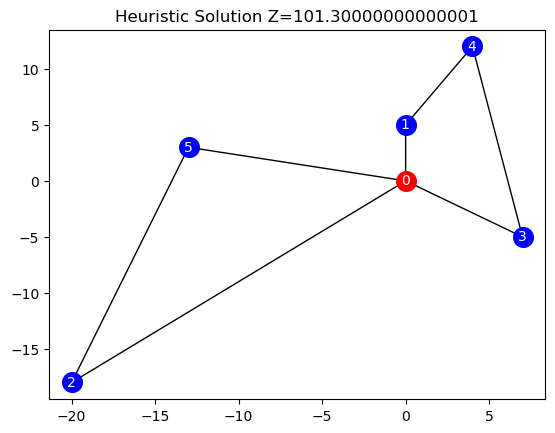
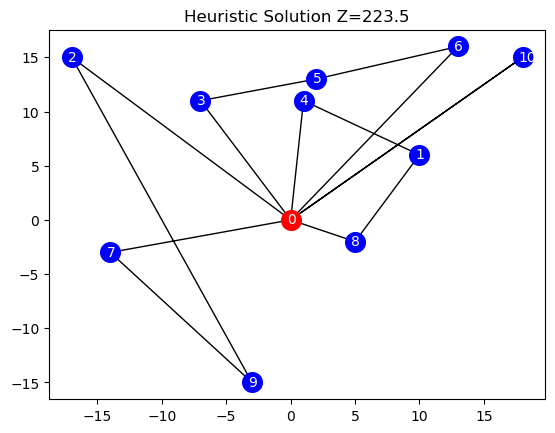
fixed a bug in heuristic solution

diff --git a/src/solver/column_generation/method.py b/src/solver/column_generation/method.py
@@ -16,24 +16,24 @@ class SolverColumnGeneration:
         self.initial_solution: Solution = None
 
         # heuristic solution
-        # self.initial_solution = get_initial_solution(instance)
-        # instance.draw(
-        #     self.initial_solution.routes,
-        #     title=f"Heuristic Solution Z={self.initial_solution.total_cost}",
-        #     save_file=True,
-        #     file_name="heuristic",
-        # )
-
-        # bad solution
-        r1 = Route([0, 2, 4, 0])
-        r2 = Route([0, 5, 3, 1, 0])
-        self.initial_solution = Solution(instance, {1: r1, 2: r2})
+        self.initial_solution = get_initial_solution(instance)
         instance.draw(
             self.initial_solution.routes,
-            title=f"Bad Initial Solution Z={self.initial_solution.total_cost}",
+            title=f"Heuristic Solution Z={self.initial_solution.total_cost}",
             save_file=True,
-            file_name="bad",
+            file_name="heuristic",
         )
+
+        # bad solution
+        # r1 = Route([0, 2, 4, 0])
+        # r2 = Route([0, 5, 3, 1, 0])
+        # self.initial_solution = Solution(instance, {1: r1, 2: r2})
+        # instance.draw(
+        #     self.initial_solution.routes,
+        #     title=f"Bad Initial Solution Z={self.initial_solution.total_cost}",
+        #     save_file=True,
+        #     file_name="bad",
+        # )
 
         # Create the master problem and fill it with the initial solution
         self.master = MasterProblem(self.initial_solution)

diff --git a/src/solver/column_generation/initial_solution.py b/src/solver/column_generation/initial_solution.py
@@ -45,12 +45,9 @@ def get_initial_solution(data: CVRP) -> Solution:
 
             # there is no more capacity or clients left, close the route
             nodes.append(0)
-
-        # Create the route object
-        route = Route(nodes)
-
-        # Add the route to the solution
-        routes[k] = route
+            route = Route(nodes)
+            # Add the route to the solution
+            routes[k] = route
 
     return Solution(data, routes)
 

diff --git a/src/main.py b/src/main.py
@@ -5,10 +5,11 @@ from problem.instance import create
 from solver.column_generation.method import SolverColumnGeneration
 
 FOLDER_INSTANCES = ".\\src\\instances\\"
+FOLDER_SOLUTIONS = ".\\src\\solutions\\"
 
 
 if __name__ == "__main__":
-    instance = "01.json"
+    instance = "02.json"
     filepath = os.path.join(FOLDER_INSTANCES, instance)
     data = CVRP(filepath)
     solver = SolverColumnGeneration(data)
